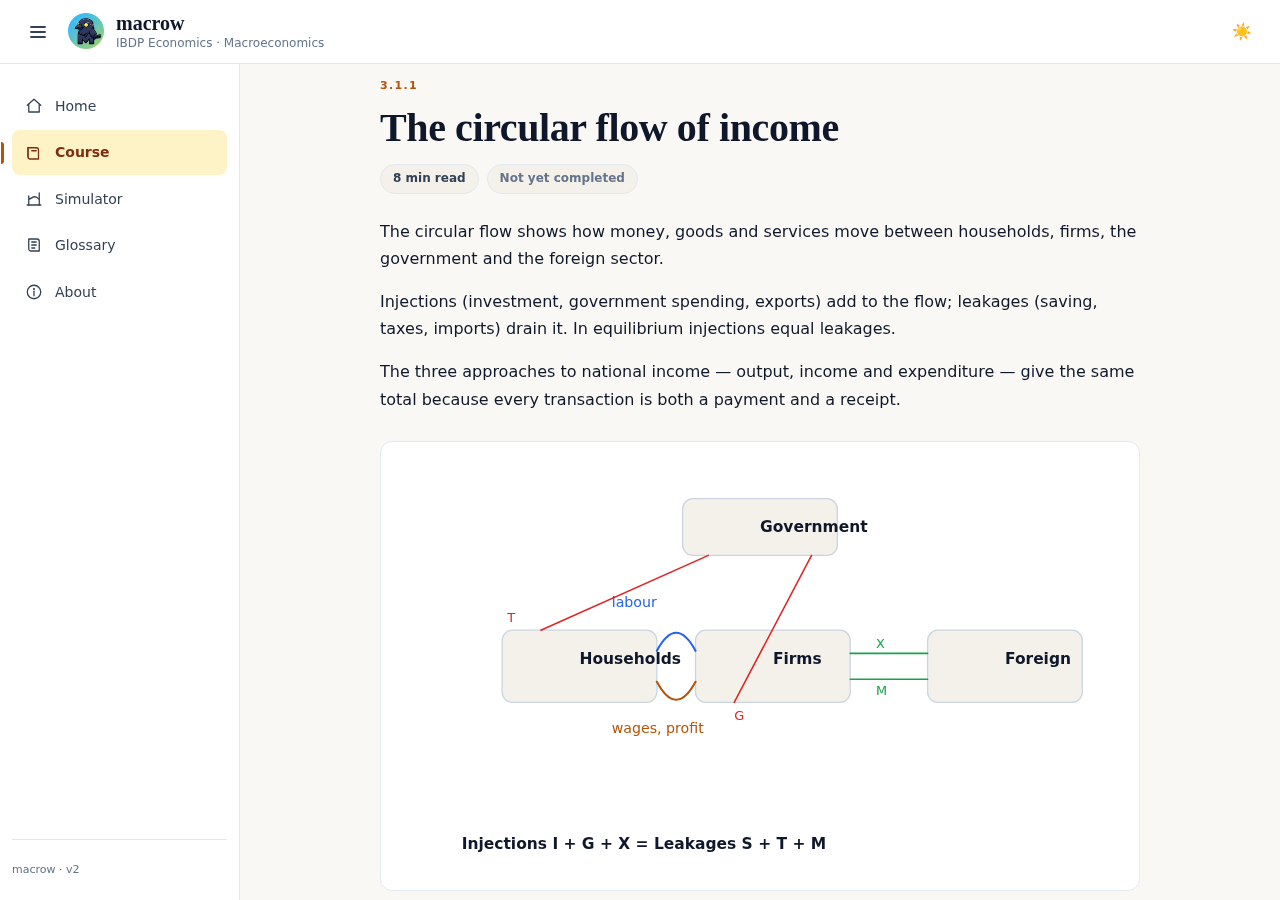
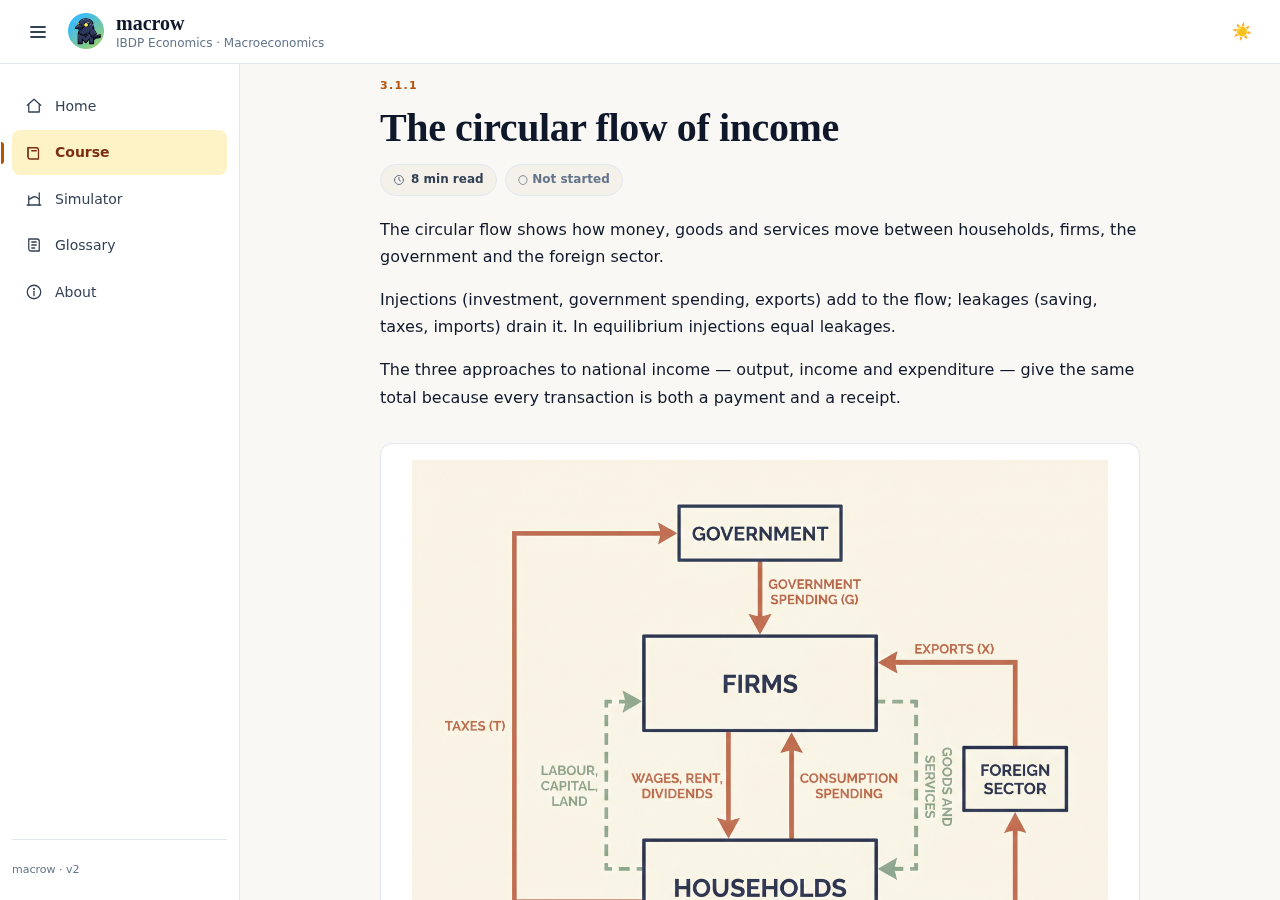
test(visual): update verify for new diagram rendering, refresh screenshots
verify.mjs now checks for .diagramImg and .diagramFrame__caption
inside the lesson body. Refreshed all screenshots so the demo
assets reflect the new image-based diagrams and polished lesson view.

diff --git a/index.html b/index.html
@@ -196,7 +196,10 @@
         <p class="page__eyebrow" id="lessonCode">3.1.1</p>
         <h1 class="page__title" id="lessonTitle">Lesson</h1>
         <div class="lessonMeta">
-          <span class="lessonMeta__chip" id="lessonTime">8 min</span>
+          <span class="lessonMeta__chip" id="lessonTime">
+            <svg width="12" height="12" viewBox="0 0 24 24" fill="none" stroke="currentColor" stroke-width="2" stroke-linecap="round"><circle cx="12" cy="12" r="9"/><path d="M12 7v5l3 2"/></svg>
+            8 min
+          </span>
           <span class="lessonMeta__chip lessonMeta__chip--muted" id="lessonStatus">Not started</span>
         </div>
 